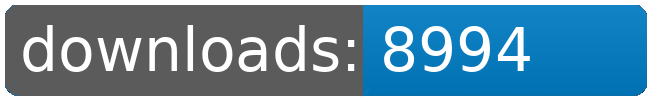
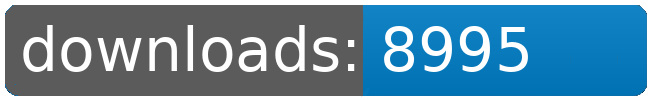
dl log written

Changed region(s): [[0.7692, 0.27, 0.8308, 0.72]]

diff --git a/README.md b/README.md
@@ -98,8 +98,8 @@
 		<td>8980</td>
 		<td>8983</td>
 		<td>8989</td>
-		<td>8994</td>
-		<td>+ 5</td>
+		<td>8995</td>
+		<td>+ 6</td>
 	</tr>
 	<tr>
 		<td>Sheragi.Rebirth.Redux</td>
@@ -153,8 +153,8 @@
 		<td></td>
 		<td></td>
 		<td></td>
-		<td>68545</td>
-		<td>26</td>
+		<td>68546</td>
+		<td>27</td>
 	</tr>
 </table>
 </sub></sup>
@@ -201,8 +201,8 @@
 		<td>8980</td>
 		<td>8983</td>
 		<td>8989</td>
-		<td>8994</td>
-		<td>+ 5</td>
+		<td>8995</td>
+		<td>+ 6</td>
 	</tr>
 	<tr>
 		<td>Korunak.Defense.Drones</td>
@@ -311,8 +311,8 @@
 		<td></td>
 		<td></td>
 		<td></td>
-		<td>68545</td>
-		<td>26</td>
+		<td>68546</td>
+		<td>27</td>
 	</tr>
 </table>
 </sub></sup>
